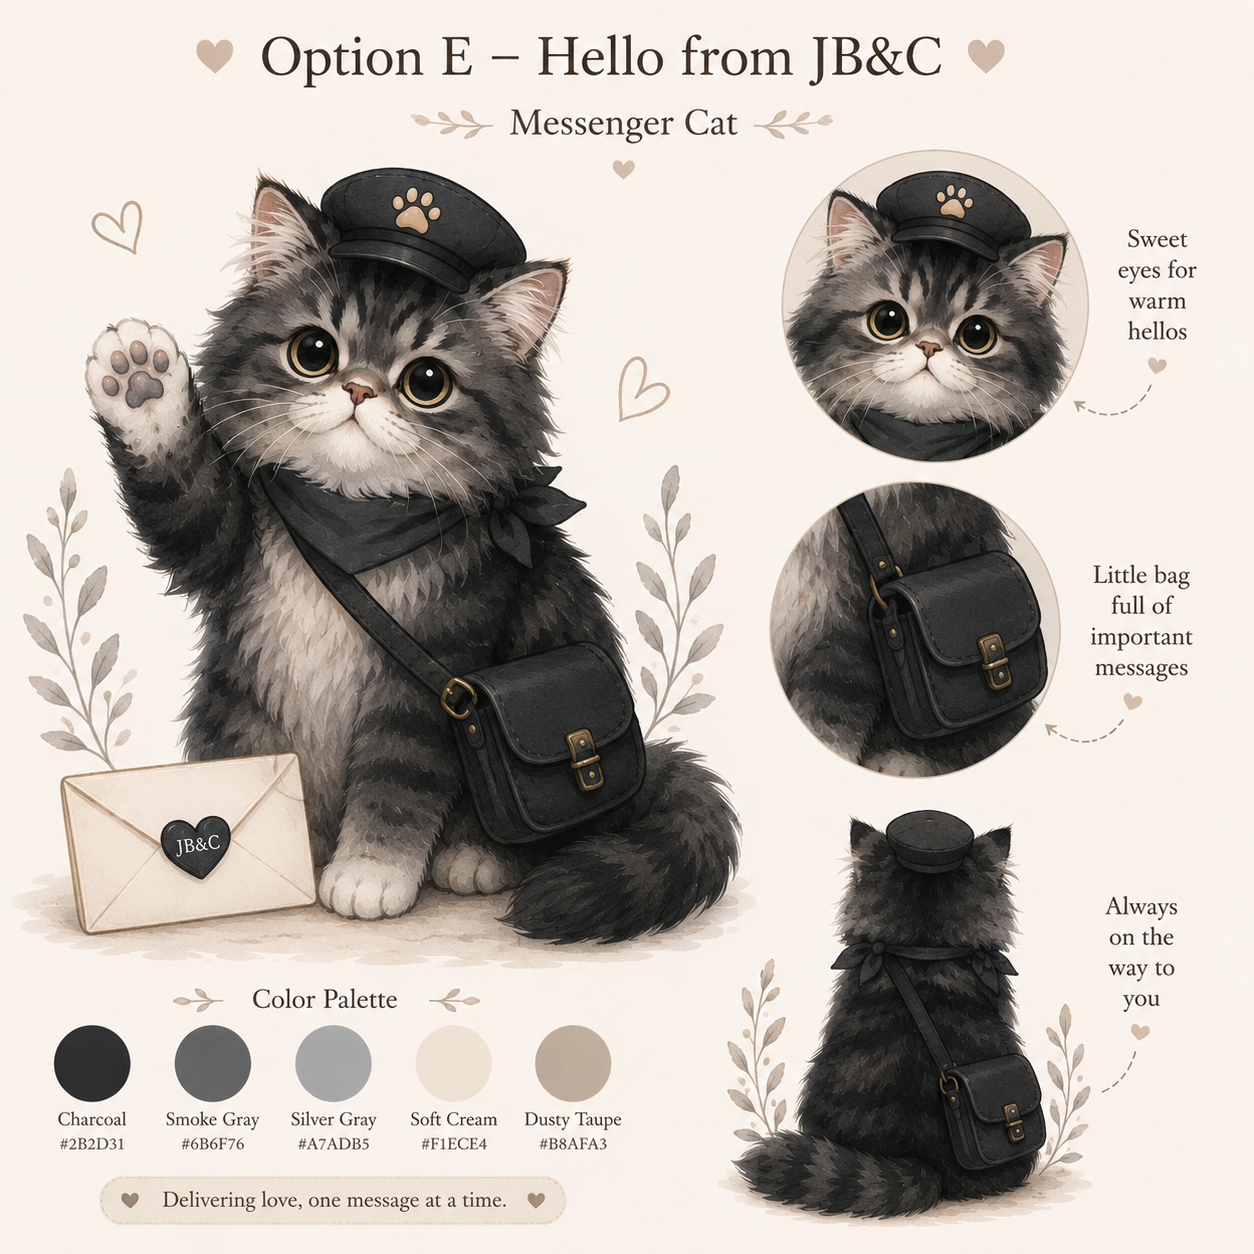
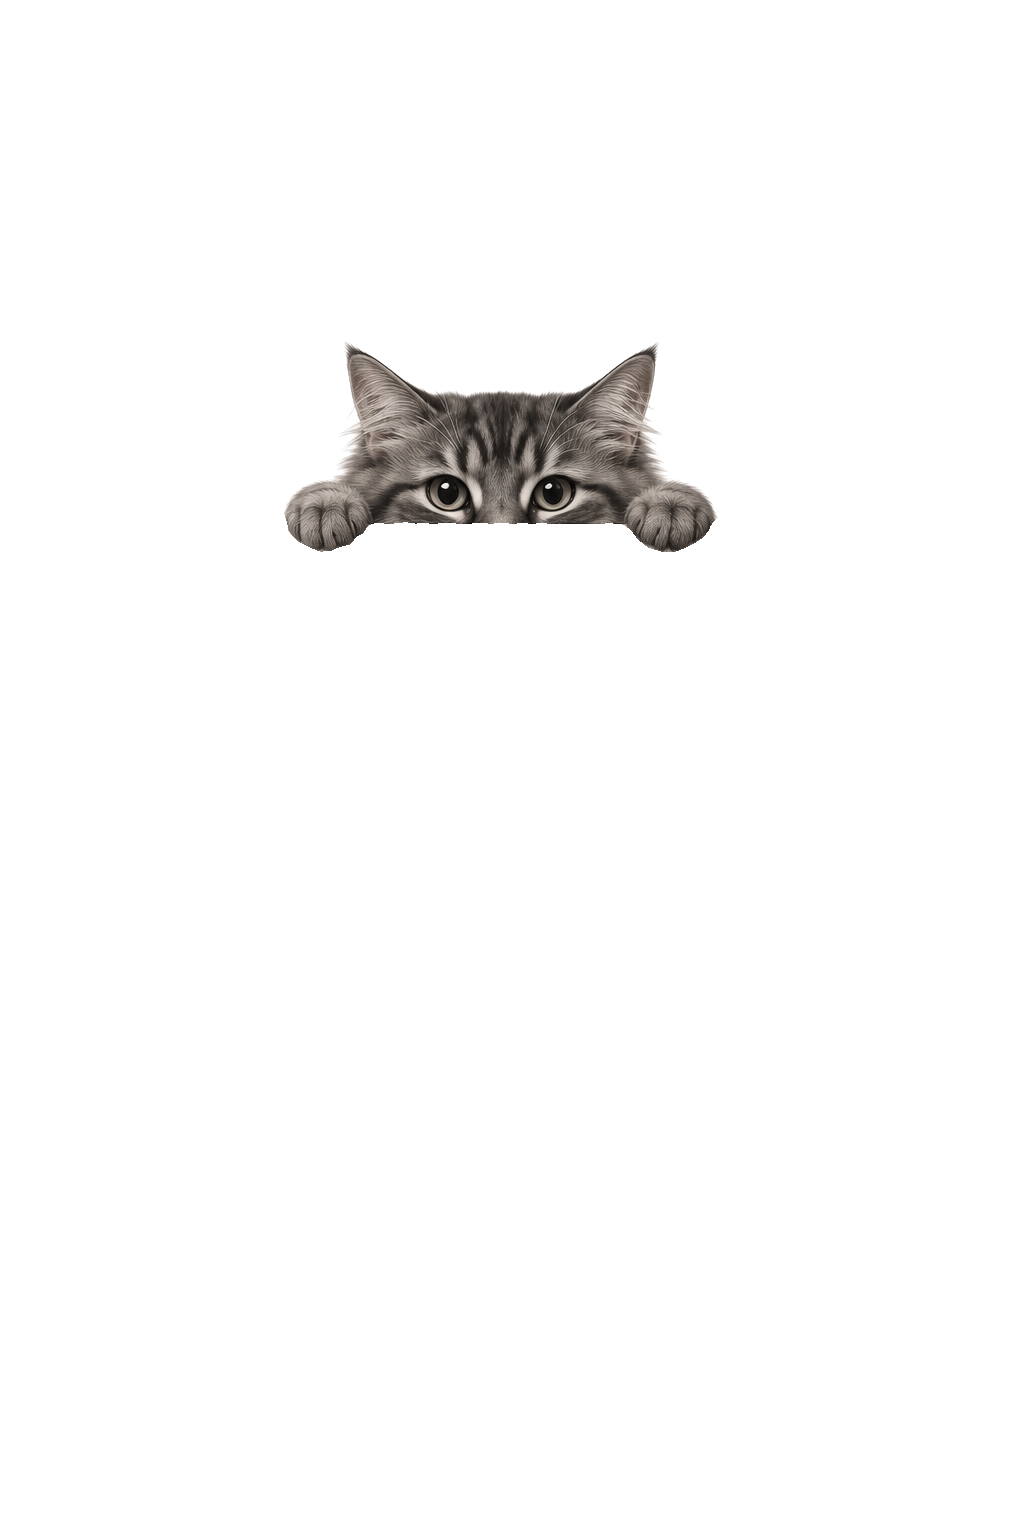
style: implement homepage typography and layout

diff --git a/style.css b/style.css
@@ -1,49 +1,214 @@
-.scene2{
+*{
+    margin:0;
+    padding:0;
+    box-sizing:border-box;
+}
+
+body{
+
+    background:#F7F3EE;
+    color:#4D4D4D;
+
+    font-family:"Cormorant Garamond",serif;
+
+}
+
+.hero{
 
     min-height:100vh;
 
     display:flex;
+    flex-direction:column;
     justify-content:center;
     align-items:center;
 
-    background:#F8F5EF;
+    padding:60px 20px;
 
-    padding:40px;
+    position:relative;
 
 }
 
-.scene2-card{
+.hero-header{
 
+    text-align:center;
+
+    margin-bottom:70px;
+
+}
+
+.hero-header h1{
+
+    font-family:"Pinyon Script",cursive;
+
+    font-size:78px;
+
+    font-weight:400;
+
+    color:#565656;
+
+}
+
+.hero-header h2{
+
+    margin-top:8px;
+
+    letter-spacing:8px;
+
+    font-size:22px;
+
+    color:#B19ACF;
+
+    font-weight:500;
+
+}
+
+.hero-header p{
+
+    margin-top:18px;
+
+    letter-spacing:8px;
+
+    font-size:38px;
+
+    color:#B19ACF;
+
+}
+
+.hero-card{
+
+    position:relative;
+
+    width:100%;
     max-width:700px;
+
+    background:white;
+
+    border-radius:32px;
+
+    padding:120px 60px 55px;
+
+    box-shadow:0 20px 50px rgba(0,0,0,.08);
 
     text-align:center;
 
 }
 
-.scene-label{
+.hero-cat{
 
-    letter-spacing:6px;
+    position:absolute;
 
-    font-size:14px;
+    width:330px;
 
-    margin-bottom:24px;
+    top:-120px;
+
+    left:50%;
+
+    transform:translateX(-50%);
+
+    z-index:5;
 
 }
 
-.scene-title{
+.hero-heart{
+
+    color:#B19ACF;
+
+    font-size:48px;
+
+    margin-bottom:18px;
+
+}
+
+.hero-card h3{
 
     font-size:72px;
 
-    margin-bottom:32px;
+    line-height:1.05;
+
+    font-weight:500;
 
 }
 
-.scene-description{
+.hero-description{
+
+    margin-top:20px;
+
+    font-size:28px;
+
+    line-height:1.4;
+
+    color:#666;
+
+}
+
+.search-box{
+
+    margin-top:42px;
+
+}
+
+.search-box input{
+
+    width:100%;
+
+    padding:22px 24px;
+
+    border-radius:18px;
+
+    border:1px solid #DDD;
 
     font-size:24px;
 
-    line-height:1.8;
+    font-family:"Cormorant Garamond",serif;
 
-    margin-bottom:48px;
+    margin-bottom:20px;
+
+}
+
+.search-box button{
+
+    width:100%;
+
+    border:none;
+
+    border-radius:18px;
+
+    padding:22px;
+
+    background:#B19ACF;
+
+    color:white;
+
+    cursor:pointer;
+
+    font-size:22px;
+
+    letter-spacing:4px;
+
+}
+
+.hero-footer{
+
+    margin-top:45px;
+
+    padding-top:28px;
+
+    border-top:1px solid #E9E3DC;
+
+    color:#666;
+
+    font-size:22px;
+
+}
+
+.bottom-text{
+
+    margin-top:60px;
+
+    color:#B19ACF;
+
+    font-family:"Pinyon Script",cursive;
+
+    font-size:48px;
 
 }

diff --git a/index.html b/index.html
@@ -6,7 +6,10 @@
   <meta name="viewport" content="width=device-width, initial-scale=1.0">
 
   <title>JB & C Wedding</title>
+  <link rel="preconnect" href="https://fonts.googleapis.com">
+  <link rel="preconnect" href="https://fonts.gstatic.com" crossorigin>
 
+  <link href="https://fonts.googleapis.com/css2?family=Cormorant+Garamond:wght@300;400;500;600&family=Pinyon+Script&display=swap" rel="stylesheet">
   <link rel="stylesheet" href="style.css">
 </head>
 